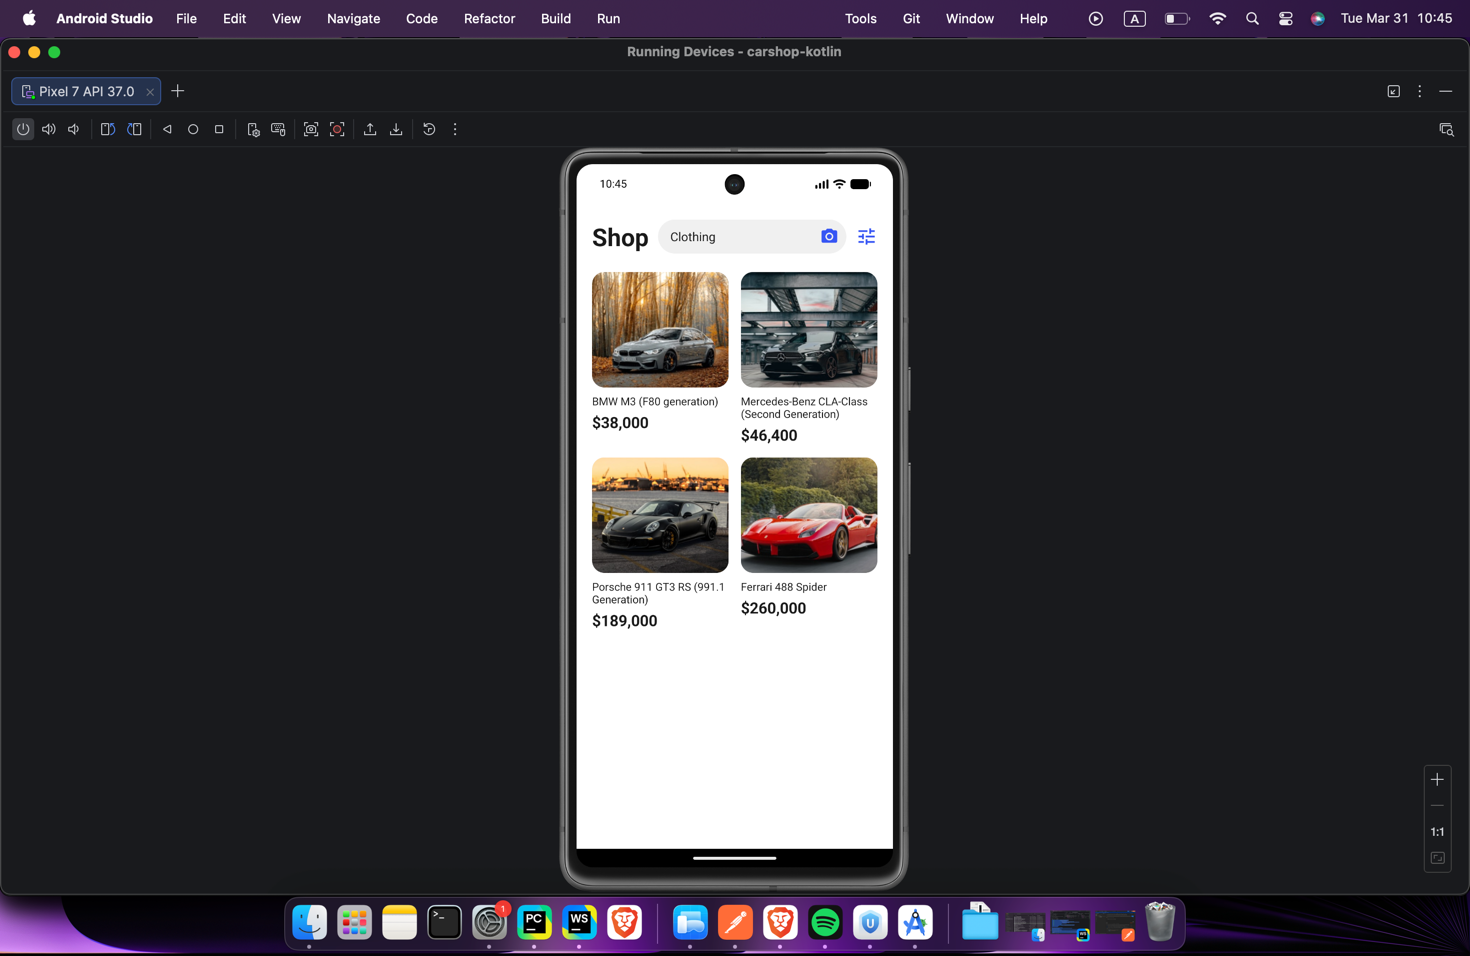
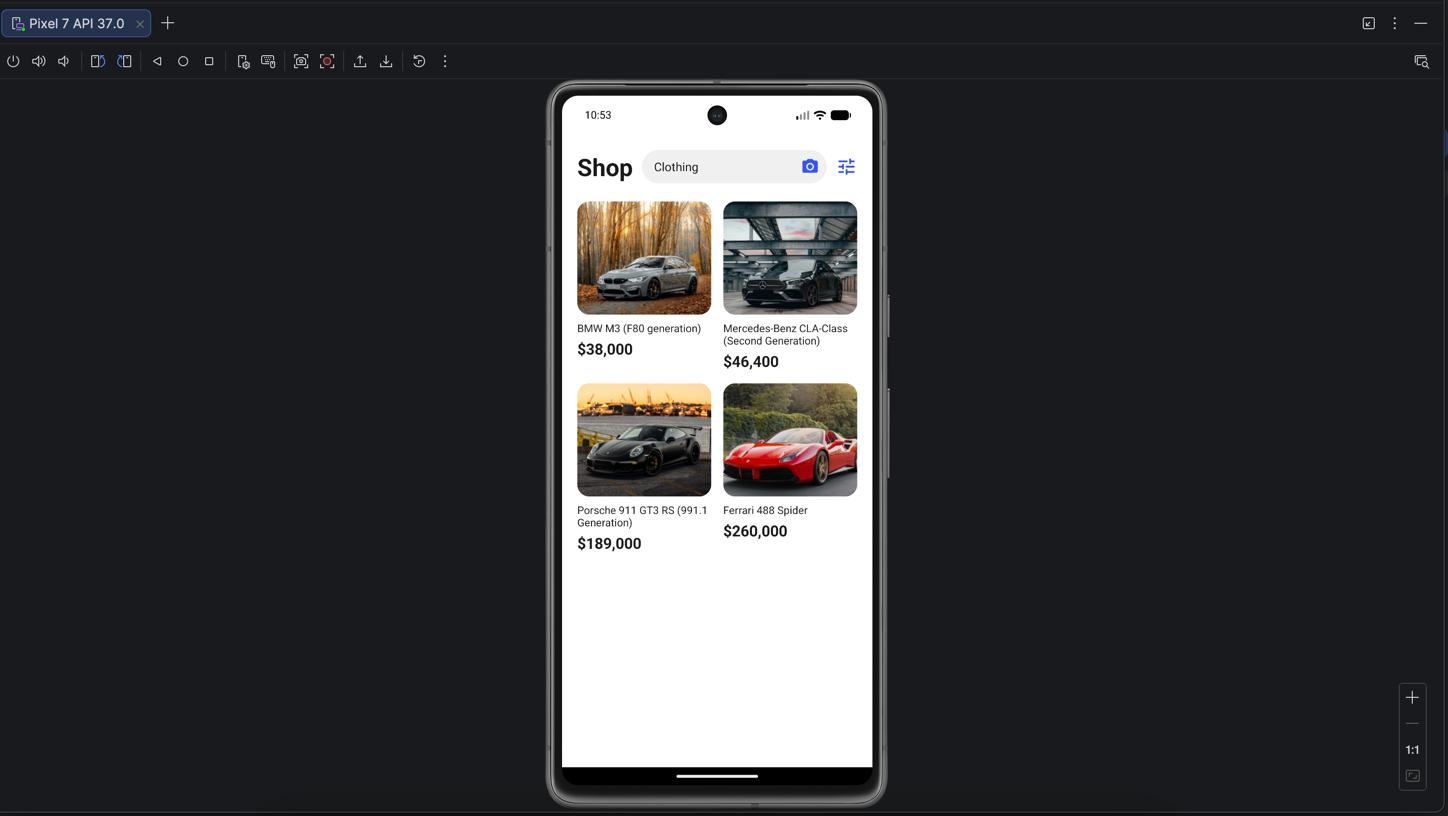
Update README.md demo section to use HTML image tags with fixed widths and refresh Shop, Payment, and Confirmation screenshots.

Changed region(s): [[0.0, 0.0, 1.0, 1.0], [0.1554, 0.1225, 0.2175, 0.1532]]

diff --git a/README.md b/README.md
@@ -10,9 +10,11 @@ Android application for browsing and purchasing luxury cars, built with Kotlin.
 
 ## Demo
 
-| Shop | Payment | Confirmation |
-|------|---------|--------------|
-| ![Shop](img/screen1.png) | ![Payment](img/screen2.png) | ![Confirmation](img/screen3.png) |
+<p>
+  <img src="img/screen1.png" width="250" alt="Shop" />
+  <img src="img/screen2.png" width="250" alt="Payment" />
+  <img src="img/screen3.png" width="250" alt="Confirmation" />
+</p>
 
 ## Cars Available
 
